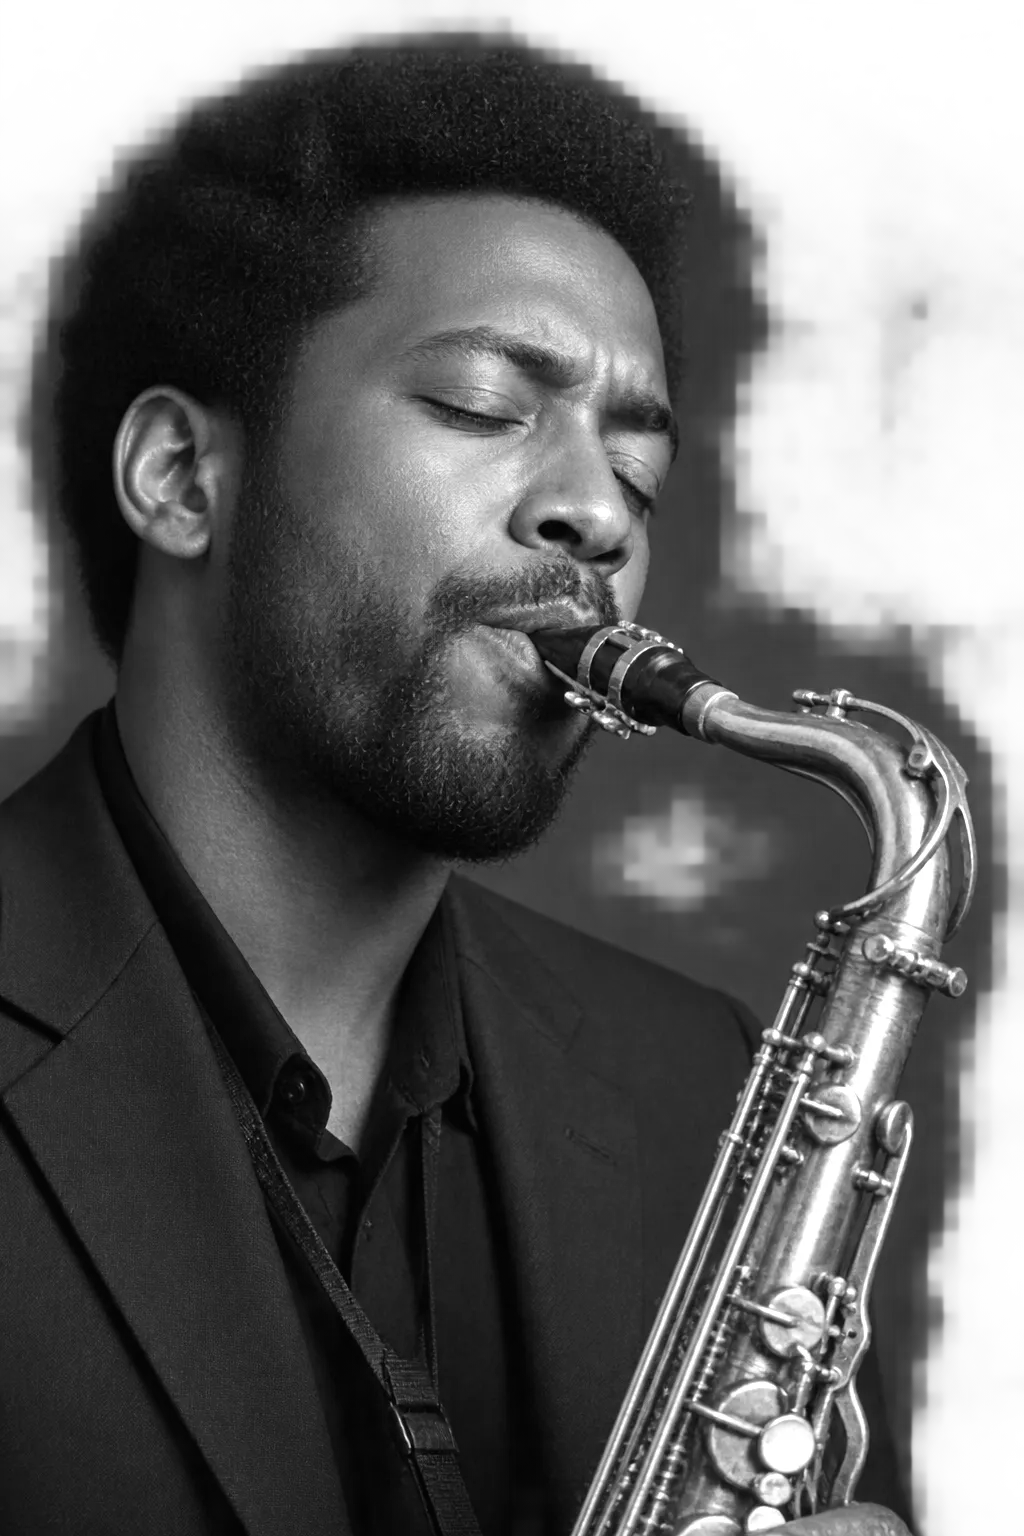
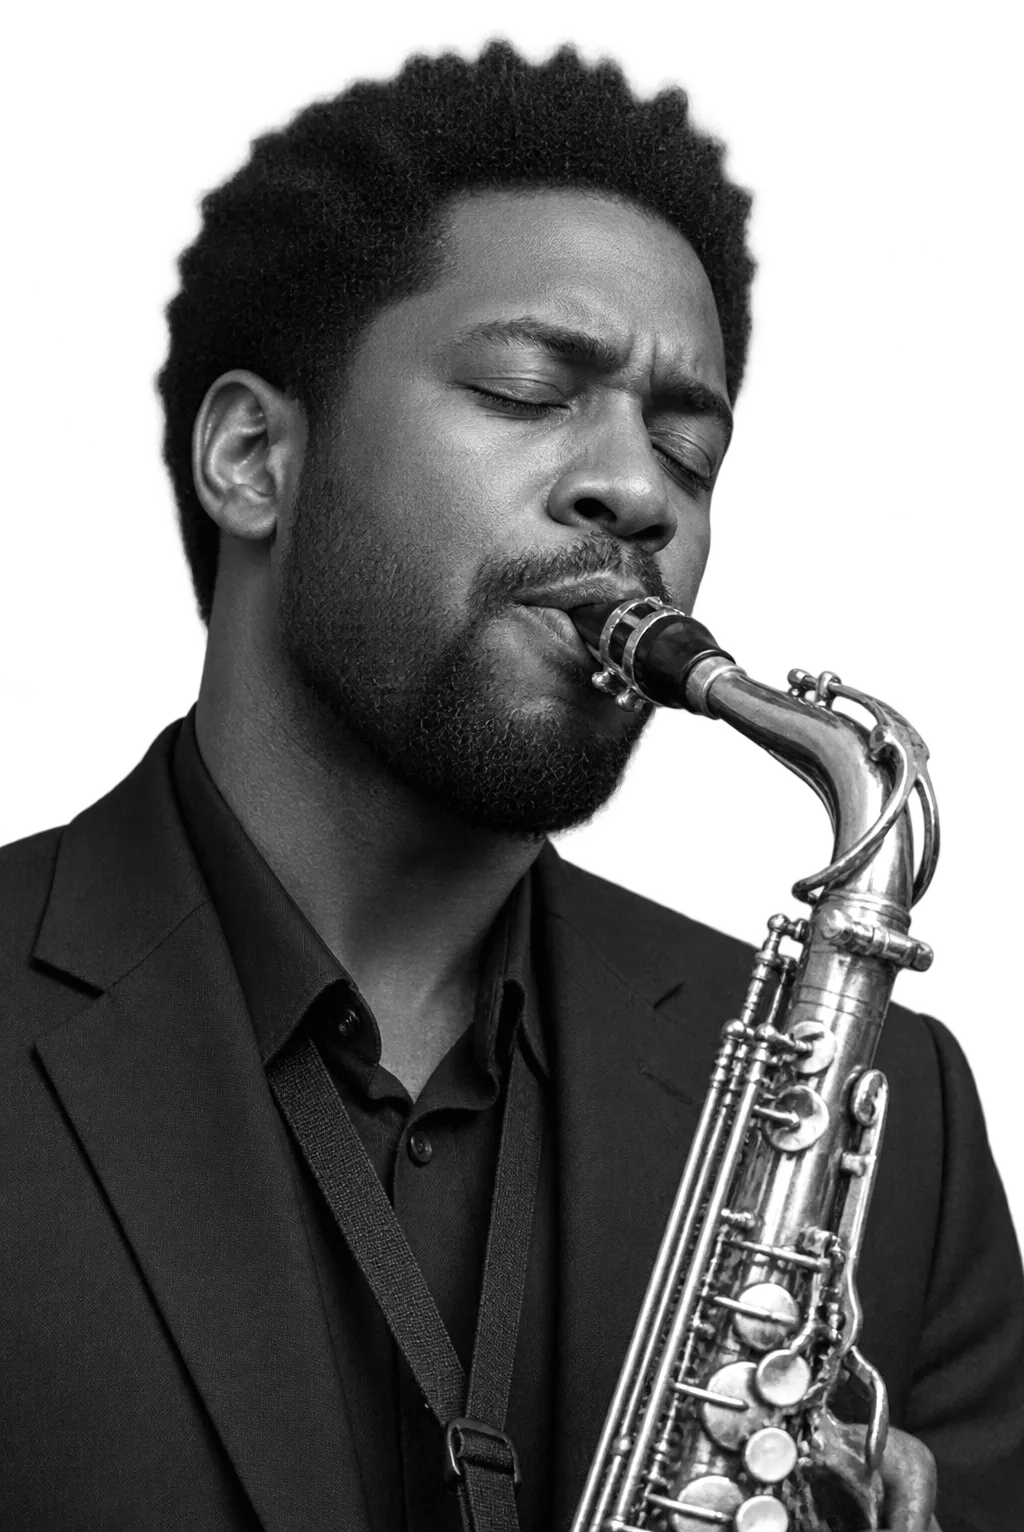
Duotones that never print a negative, unique filter ids, and a clean saxophonist
A re-color that swaps the palette's light and dark turned every duotone
into a negative, since the shadow ink was simply the first one. Both
duotones now blend the two inks, darken for the shadows and lighten for
the light (feBlend in the filter, background-blend-mode in the CSS tint),
so the darker ink takes the shadows whichever order they come in. The
filter id comes from useId, so a picture repeated with the same inks no
longer repeats an id. The saxophonist was regenerated with the stricter
cut-out wording, now on the portrait set too: 2% of it semi-transparent,
from over half.

Also saves the pages written so far.

Claude-Session: https://claude.ai/code/session_01Bo47EU4co9gzmQdVGEZvE5

diff --git a/app/templates/tinker-toys/site/page.tsx b/app/templates/tinker-toys/site/page.tsx
@@ -46,7 +46,8 @@ const AGES: Age[] = [
     id: 'tiny',
     band: '0-2',
     label: 'Babies and toddlers',
-    blurb: 'Things to hold, chew, stack and drop again. Nothing smaller than a toilet-paper tube, and nothing that needs a battery.',
+    blurb:
+      'Things to hold, chew, stack and drop again. Nothing smaller than a toilet-paper tube, and nothing that needs a battery.',
     look: 'Solid wood, water-based paint, washable cloth.',
     picks: [
       { name: 'Rainbow ring stacker', price: '$24' },
@@ -59,7 +60,8 @@ const AGES: Age[] = [
     id: 'small',
     band: '3-5',
     label: 'Preschool',
-    blurb: 'Pretend play and first puzzles. Trains that link with magnets, kitchens with real-feeling pans, and puzzles of 12 to 48 pieces.',
+    blurb:
+      'Pretend play and first puzzles. Trains that link with magnets, kitchens with real-feeling pans, and puzzles of 12 to 48 pieces.',
     look: 'Toys that grow a story rather than tell one.',
     picks: [
       { name: 'Magnetic train, 3 cars', price: '$38' },
@@ -72,7 +74,8 @@ const AGES: Age[] = [
     id: 'middle',
     band: '6-8',
     label: 'Early readers',
-    blurb: 'Building sets, first board games and the rocket everyone asks about. Instructions they can read on their own, mostly.',
+    blurb:
+      'Building sets, first board games and the rocket everyone asks about. Instructions they can read on their own, mostly.',
     look: 'Two players or more, and nothing over an hour.',
     picks: [
       { name: 'Stomp rocket, 3 rockets', price: '$29' },
@@ -358,7 +361,12 @@ export default function TinkerToysPage() {
                     <Artwork
                       slug="tinker-toys-rings"
                       alt="A stacking ring toy in two colors"
-                      inks={{ red: 'var(--yellow)', blue: 'var(--pink)', yellow: 'var(--cream)', black: 'var(--cream)' }}
+                      inks={{
+                        red: 'var(--yellow)',
+                        blue: 'var(--pink)',
+                        yellow: 'var(--cream)',
+                        black: 'var(--cream)',
+                      }}
                       className={s.artRings}
                     />
                   ) : null}
@@ -387,7 +395,9 @@ export default function TinkerToysPage() {
         <section id="featured" className={s.featured} aria-labelledby="featured-h">
           <div className={s.secHead}>
             <h2 id="featured-h">On the front table this month</h2>
-            <p className={s.secNote}>Six things we cannot keep in stock. Ask at the counter and we will set one aside.</p>
+            <p className={s.secNote}>
+              Six things we cannot keep in stock. Ask at the counter and we will set one aside.
+            </p>
           </div>
           <ul className={s.toys}>
             {TOYS.map((t, i) => (
@@ -467,7 +477,7 @@ export default function TinkerToysPage() {
             with a ribbon drawn in CSS. */}
         <section id="gifts" className={s.gifts} aria-labelledby="gifts-h">
           <div className={s.gift} aria-hidden="true">
-            <div className={s.giftPaper}>
+            <div className={s.giftPaper} aria-hidden="true">
               <TabbiedPattern
                 pattern={stitch}
                 palette={PAPER}
@@ -490,8 +500,8 @@ export default function TinkerToysPage() {
               <em>on everything.</em>
             </h2>
             <p className={s.secNote}>
-              Bring the toy to the counter and choose a paper. It takes us about five minutes, and we have never once run
-              out of tape.
+              Bring the toy to the counter and choose a paper. It takes us about five minutes, and we have never once
+              run out of tape.
             </p>
             <dl className={s.wrapList}>
               {WRAP.map(([k, v]) => (
@@ -517,7 +527,9 @@ export default function TinkerToysPage() {
             <div className={s.visitCard}>
               <h3>Find us</h3>
               <p className={s.visitBig}>27 Orchard Street</p>
-              <p>Across from the library, next to the ice cream shop. Two-hour parking on the street and behind the bank.</p>
+              <p>
+                Across from the library, next to the ice cream shop. Two-hour parking on the street and behind the bank.
+              </p>
             </div>
             <div className={s.visitCard}>
               <h3>Hours</h3>

diff --git a/components/Artwork.tsx b/components/Artwork.tsx
@@ -1,4 +1,4 @@
-import type { CSSProperties, ReactNode } from 'react';
+import { useId, type CSSProperties, type ReactNode } from 'react';
 import artworkManifest from 'lib/generated/artwork';
 
 /**
@@ -18,9 +18,11 @@ import artworkManifest from 'lib/generated/artwork';
  *   mono              one ink painted through the picture as a CSS mask
  *   layers (vector)   inline SVG, one path per key color, each filled with an ink
  *   layers (masks)    one masked layer per key color, stacked
- *   tone, duotone     an SVG filter maps shadows to inks[0], light to inks[1]
- *   tone, tint        the same mapping in CSS: inks[0] through the picture's
- *                     alpha, inks[1] through its luminance. Blend modes were
+ *   tone, duotone     an SVG filter maps shadows to the darker of the two
+ *                     inks and light to the lighter, whichever order they
+ *                     come in, so a re-color to a dark palette is no negative
+ *   tone, tint        the same mapping in CSS: the darker ink through the
+ *                     picture's alpha, the lighter through its luminance. Blend modes were
  *                     tried first and dropped: multiply-then-lighten only
  *                     works while inks[0] is the darker, and a re-color to a
  *                     dark palette flips that and paints a flat box.
@@ -54,7 +56,7 @@ type ArtworkProps = {
   alt: string;
   /**
    * The colors, normally `var(--ink)` and the like. A list for mono (the one
-   * ink) and a photograph (the shadow color, then the light); for layers, an
+   * ink) and a photograph (two inks; the darker takes the shadows); for layers, an
    * object keyed by layer name (`{ red: 'var(--accent)', black: 'var(--ink)' }`),
    * since a picture may lack one of its prompt's keys and a list would shift.
    */
@@ -74,13 +76,6 @@ type ArtworkProps = {
 const src = (entry: Entry, file: string) => `${entry.base}/${file}?v=${entry.hash.slice(0, 8)}`;
 const maskUrl = (entry: Entry, file: string) => `url(${src(entry, file)})`;
 
-/** A short, stable suffix, so two filters on one page never share an id. */
-function idFor(slug: string, inks: string[]) {
-  let h = 5381;
-  for (const c of `${slug}|${inks.join('|')}`) h = ((h << 5) + h + c.charCodeAt(0)) | 0;
-  return `artwork-${slug}-${(h >>> 0).toString(36)}`;
-}
-
 export function Artwork({
   slug,
   alt,
@@ -92,6 +87,7 @@ export function Artwork({
   children,
   ...rest
 }: ArtworkProps) {
+  const reactId = useId();
   const entry = manifest[slug];
 
   if (!entry) {
@@ -187,7 +183,7 @@ export function Artwork({
   }
 
   // duotone: luminance picks between the two inks, the file's alpha is kept.
-  const id = idFor(slug, Object.values(inks));
+  const id = `artwork-${slug}-${reactId.replace(/[^a-zA-Z0-9_-]/g, '')}`;
   return (
     <svg
       {...label}
@@ -198,11 +194,15 @@ export function Artwork({
       preserveAspectRatio={aspect}
       style={{ ...box, ...inkProperties, ...style } as CSSProperties}>
       <filter id={id} x="0" y="0" width="1" height="1" colorInterpolationFilters="sRGB">
+        {/* The darker of the two inks takes the shadows whichever it is, so a
+            re-color that swaps light for dark does not print a negative. */}
+        <feFlood style={{ floodColor: 'var(--art-1)' }} result="one" />
+        <feFlood style={{ floodColor: 'var(--art-2)' }} result="two" />
+        <feBlend in="one" in2="two" mode="darken" result="dark" />
+        <feBlend in="one" in2="two" mode="lighten" result="bright" />
         <feColorMatrix in="SourceGraphic" type="matrix" values="0 0 0 0 1  0 0 0 0 1  0 0 0 0 1  -0.2126 -0.7152 -0.0722 0 1" result="shadow" />
-        <feFlood style={{ floodColor: 'var(--art-1)' }} result="dark" />
         <feComposite in="dark" in2="shadow" operator="in" result="darkPart" />
         <feColorMatrix in="SourceGraphic" type="matrix" values="0 0 0 0 1  0 0 0 0 1  0 0 0 0 1  0.2126 0.7152 0.0722 0 0" result="light" />
-        <feFlood style={{ floodColor: 'var(--art-2)' }} result="bright" />
         <feComposite in="bright" in2="light" operator="in" result="lightPart" />
         <feComposite in="darkPart" in2="lightPart" operator="arithmetic" k2="1" k3="1" result="mixed" />
         <feComposite in="mixed" in2="SourceAlpha" operator="in" />

diff --git a/styles/globals.css b/styles/globals.css
@@ -303,8 +303,9 @@ svg.artwork {
 }
 
 /* A photograph in two inks, by masks: the shadow ink through the picture's
-   alpha, the light ink over it through its luminance. Correct whichever ink
-   is the darker, which blend modes are not. */
+   alpha, the light ink over it through its luminance. Blend modes over the
+   picture itself (multiply, then lighten) were tried first and paint a flat
+   box once a re-color makes the shadow ink the lighter one. */
 .artwork--tint {
   isolation: isolate;
 }
@@ -319,12 +320,19 @@ svg.artwork {
   mask: var(--artwork-mask) center / contain no-repeat;
 }
 
+/* Each layer is both inks blended, darken for the shadows and lighten for
+   the light, so the darker ink takes the shadows whichever order they come
+   in and a re-color to a dark palette is no negative. */
 .artwork--tint::before {
-  background: var(--art-1);
+  background-color: var(--art-1);
+  background-image: linear-gradient(var(--art-2), var(--art-2));
+  background-blend-mode: darken;
 }
 
 .artwork--tint::after {
-  background: var(--art-2);
+  background-color: var(--art-1);
+  background-image: linear-gradient(var(--art-2), var(--art-2));
+  background-blend-mode: lighten;
   mask-mode: luminance;
 }
 

diff --git a/app/templates/nori-sushi/site/page.tsx b/app/templates/nori-sushi/site/page.tsx
@@ -459,8 +459,8 @@ export default function NoriSushiPage() {
             <p className={s.kicker}>Tuesday to Saturday</p>
             <h2 id="reserve-h">Reserve a seat</h2>
             <p className={s.lede}>
-              Bookings open on the first of each month for the month after. The counter seats eight; for a party of
-              six to eight, ask about taking the whole counter.
+              Bookings open on the first of each month for the month after. The counter seats eight; for a party of six
+              to eight, ask about taking the whole counter.
             </p>
             <dl className={s.policies}>
               {POLICIES.map(([k, v]) => (

diff --git a/app/templates/platen-press/site/platen-press.module.css b/app/templates/platen-press/site/platen-press.module.css
@@ -957,10 +957,6 @@
 /* ---------------------------------------------------------- responsive */
 
 @media (max-width: 1100px) {
-  .papers {
-    grid-template-columns: repeat(2, minmax(0, 1fr));
-  }
-
   .steps {
     grid-template-columns: repeat(2, minmax(0, 1fr));
     gap: 0 1.25rem;
@@ -980,6 +976,10 @@
 }
 
 @media (max-width: 900px) {
+  .papers {
+    grid-template-columns: repeat(2, minmax(0, 1fr));
+  }
+
   .nav {
     display: none;
   }

diff --git a/app/templates/vinyl-vault/site/vinyl-vault.module.css b/app/templates/vinyl-vault/site/vinyl-vault.module.css
@@ -344,7 +344,7 @@
 
 .crate {
   display: grid;
-  grid-template-columns: 11rem minmax(0, 1fr);
+  grid-template-columns: 12rem minmax(0, 1fr);
   gap: clamp(1.2rem, 3vw, 2.5rem);
   padding: 2.4rem 0 2.8rem;
   border-top: 3px solid var(--black);
@@ -393,8 +393,7 @@
 }
 
 .divider h3 {
-  font-size: 2.05rem;
-  overflow-wrap: anywhere;
+  font-size: 1.8rem;
   font-weight: 900;
   font-stretch: 62%;
   line-height: 0.92;

diff --git a/app/templates/bolt-and-bench/site/bolt-and-bench.module.css b/app/templates/bolt-and-bench/site/bolt-and-bench.module.css
@@ -948,8 +948,13 @@
 
 /* ------------------------------------------------------------ responsive */
 
+@media (max-width: 980px) {
+  .aisles {
+    grid-template-columns: repeat(2, minmax(0, 1fr));
+  }
+}
+
 @media (max-width: 1150px) {
-  .aisles,
   .serviceGrid,
   .deals {
     grid-template-columns: repeat(2, minmax(0, 1fr));

diff --git a/app/templates/wick-and-wax/site/page.tsx b/app/templates/wick-and-wax/site/page.tsx
@@ -24,7 +24,7 @@ const PALE = '#E8E0D4';
 const HERO_JAR = [AMBER, AMBER, WAX];
 const WOODS = [PALE, AMBER, SMOKE];
 const FLORALS = [HEATHER, HEATHER, PALE, AMBER, WAX];
-const GARDEN = [PALE, PALE, INK];
+const GARDEN = [SMOKE, SMOKE, WAX];
 const GLOW = ['transparent', AMBER, HEATHER];
 
 const NAV = [

diff --git a/app/templates/terrace-hill-winery/site/terrace-hill-winery.module.css b/app/templates/terrace-hill-winery/site/terrace-hill-winery.module.css
@@ -994,11 +994,16 @@
   }
 
   .secHead {
-    grid-template-columns: 4rem minmax(0, 1fr);
+    grid-template-columns: minmax(0, 1fr);
+    gap: 1rem;
+  }
+
+  .secRule {
+    width: 3rem;
   }
 
   .grapes {
-    width: 4rem;
+    width: 4.5rem;
   }
 
   .tasting {

diff --git a/app/templates/suds-car-wash/site/suds-car-wash.module.css b/app/templates/suds-car-wash/site/suds-car-wash.module.css
@@ -692,7 +692,7 @@
 }
 
 .memberHead h2 {
-  font-size: clamp(2.3rem, 5.4vw, 4.4rem);
+  font-size: clamp(2.2rem, 4.6vw, 3.8rem);
   font-weight: 900;
   line-height: 0.95;
   text-transform: uppercase;

diff --git a/app/templates/wayfarer-travel/site/wayfarer-travel.module.css b/app/templates/wayfarer-travel/site/wayfarer-travel.module.css
@@ -846,8 +846,8 @@
 .postmark {
   position: absolute;
   z-index: 1;
-  top: 4.8rem;
-  right: 4.6rem;
+  top: 5rem;
+  right: 5.1rem;
   display: grid;
   place-items: center;
   width: 4.4rem;

diff --git a/app/templates/bloom-events/site/bloom-events.module.css b/app/templates/bloom-events/site/bloom-events.module.css
@@ -592,7 +592,7 @@
   inset: 0;
   z-index: -1;
   overflow: hidden;
-  opacity: 0.75;
+  opacity: 0.6;
 }
 
 .wordsInner {
